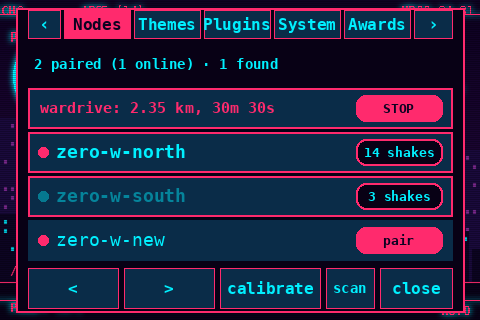
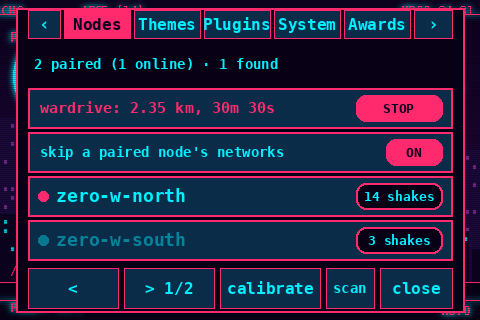
Move the skip-a-paired-node's-networks switch into the Nodes tab (2.16.2)
It lived in Settings, disconnected from the feature it actually
controls. Both the touch menu and the web editor now show it as a
row right below Wardrive, at the top of Nodes -- same off-by-default
switch, same live whitelist mechanism, just where you'd look for it.

diff --git a/theme_manager.py b/theme_manager.py
@@ -2508,9 +2508,9 @@ def draw_menu(img, menu, theme):
         d.text((240, 178), "(Settings in the web editor, or settings.json)", font=_font(12), fill=_mixc(fg, bg, 0.4), anchor="mm")
     if tab == "layout" and not menu["layout"]:
         d.text((240, 150), "Nothing on the screen yet", font=_font(16, True), fill=fg, anchor="mm")
-    if tab == "nodes" and len(menu.get("nodes", [])) <= 2:
-        d.text((240, 194), "No nodes yet", font=_font(16, True), fill=fg, anchor="mm")
-        d.text((240, 222), "Install node_pwn on another unit, then tap scan", font=_font(12), fill=_mixc(fg, bg, 0.4), anchor="mm")
+    if tab == "nodes" and len(menu.get("nodes", [])) <= 3:
+        d.text((240, 198), "No nodes yet", font=_font(16, True), fill=fg, anchor="mm")
+        d.text((240, 226), "Install node_pwn on another unit, then tap scan", font=_font(12), fill=_mixc(fg, bg, 0.4), anchor="mm")
     if tab == "system":
         for i, text in enumerate(menu.get("lines", ())):
             d.text((32, 46 + i * 24), text, font=_font(16), fill=fg)
@@ -2614,6 +2614,13 @@ def draw_menu(img, menu, theme):
                 d.rounded_rectangle((px0, y0 + 7, px1, y1 - 7), 10, fill=acc if active else panel, outline=acc, width=2)
                 d.text(((px0 + px1) // 2, cy), "STOP" if active else "START", font=_font(13, True),
                        fill=bg if active else fg, anchor="mm")
+            elif info["kind"] == "skipnet":
+                on, cy = info.get("on", False), (y0 + y1) // 2
+                d.rectangle(rect, fill=line, outline=acc if on else line, width=2)
+                d.text((x0 + 12, cy), "skip a paired node's networks", font=_font(14, on), fill=fg, anchor="lm")
+                px0, px1 = x1 - 66, x1 - 10
+                d.rounded_rectangle((px0, y0 + 7, px1, y1 - 7), 10, fill=acc if on else panel, outline=acc, width=2)
+                d.text(((px0 + px1) // 2, cy), "ON" if on else "OFF", font=_font(13, True), fill=bg if on else fg, anchor="mm")
             else:
                 paired, online = info["kind"] == "paired", info.get("online", True)
                 dim = paired and not online
@@ -2887,7 +2894,7 @@ def _pwa_icon(size, theme):
 
 class ThemeManager(plugins.Plugin):
     __author__ = "theme_manager contributors"
-    __version__ = "2.16.1"
+    __version__ = "2.16.2"
     __license__ = "GPL3"
     __description__ = "Theme engine for the 3.5 inch display: colors, effects, animations, custom text, web GUI."
 
@@ -3363,8 +3370,9 @@ class ThemeManager(plugins.Plugin):
         paired, found = self.node_rows()
         online = sum(1 for p in paired if p.get("online", True))
         info = {"__summary__": {"kind": "summary", "text": "%d paired (%d online) · %d found" % (len(paired), online, len(found))},
-                "__wardrive__": dict(w, kind="wardrive")}
-        order = ["__summary__", "__wardrive__"]
+                "__wardrive__": dict(w, kind="wardrive"),
+                "__skipnet__": {"kind": "skipnet", "on": self._settings["node_skip_captured"]}}
+        order = ["__summary__", "__wardrive__", "__skipnet__"]
         for p in paired:
             info["p:" + p["mac"]] = dict(p, kind="paired")
             order.append("p:" + p["mac"])
@@ -3827,6 +3835,12 @@ class ThemeManager(plugins.Plugin):
         self._set_warning(time.time())
         self._refresh_now()
 
+    def _toggle_node_skip(self):
+        on = not self._settings["node_skip_captured"]
+        self.save_settings(dict(self._settings, node_skip_captured=on))
+        self.toast("skip a paired node's networks: %s" % ("ON" if on else "OFF"))
+        self._refresh_now()
+
     def _check_overheat(self, temp, now):
         """With the option on: if the CPU stays at or above the limit long enough, count down 30 s on screen and turn the
         Pi off (a touch cancels and snoozes it). Cooling down cancels it too."""
@@ -4080,6 +4094,9 @@ class ThemeManager(plugins.Plugin):
                             self.toast("wardrive started", seconds=3, now=now)
                         self._sync_nodes_menu(menu)
                         self._refresh_now()
+                    elif info["kind"] == "skipnet":
+                        self._toggle_node_skip()
+                        self._sync_nodes_menu(menu)
                     elif info["kind"] == "found":
                         menu["confirm"] = None
                         if self.pair_node(info["mac"]):
@@ -5364,6 +5381,9 @@ function panelNodes(){const p=E('div');
  panelWardriveSection(p);
  p.append(E('h2',{},'Nodes'));
  p.append(E('p',{style:'color:var(--dim);margin:0 0 10px'},'Other units running node_pwn (install it with Node_PWN.sh). Nodes in WiFi range show up here on their own, over pwnagotchi’s own mesh -- no shared network needed. Pair one to see its capture stats here; a paired node’s handshakes count as already covered on the Radar tab, so a group of units end up covering more ground instead of attacking the same network twice.'));
+ p.append(E('div',{class:'row'},check('skip networks a paired node already has',cfg.settings.node_skip_captured,async on=>{
+  cfg.settings.node_skip_captured=on;await saveSettings()})),
+  E('p',{style:'color:var(--dim);margin:6px 0 14px'},'Off by default. On, a network a paired, online node already captured is added to pwnagotchi’s own whitelist for as long as that stays true, so this unit genuinely skips it instead of just showing it covered on the Radar — the same live, no-restart-needed mechanism as the attack mode (Settings tab) uses. It never touches whitelist entries you added yourself, and cleans up the moment a node is unpaired, goes offline, or this is switched off again.'));
  const btn=E('button',{onclick:async()=>{if(nodesScanning)return;nodesScanning=true;btn.textContent='scanning…';btn.disabled=true;
   try{const r=await(await post('nodes/scan',{})).json();nodes={paired:r.paired,found:r.found}}catch(e){}
   finally{nodesScanning=false;panel()}}},'Scan for nodes on this network');
@@ -5397,8 +5417,6 @@ function panelSettings(){const p=E('div'),s=cfg.settings,d=cfg.display;
  p.append(E('h2',{},'Attack mode'),E('div',{class:'row'},
   select([['aggressive','Aggressive (normal)'],['passive','Passive recon'],['home','Home defense']],s.mode||'aggressive',v=>{s.mode=v})),
   E('p',{style:'color:var(--dim);margin:6px 0 14px'},'Aggressive is normal pwnagotchi behavior. Passive turns deauth and association off right away, no restart needed; Aggressive puts them back. Home defense does the same as Passive, and also watches for a new device broadcasting one of the network names in your whitelist, a common sign of a rogue access point.'));
- p.append(E('div',{class:'row'},check('skip networks a paired node already has',s.node_skip_captured,on=>{s.node_skip_captured=on})),
-  E('p',{style:'color:var(--dim);margin:6px 0 14px'},'Off by default. On, a network a paired, online node (Nodes tab) already captured is added to pwnagotchi’s own whitelist for as long as that stays true, so this unit genuinely skips it instead of just showing it covered on the Radar — the same live, no-restart-needed mechanism as the attack mode above. It never touches whitelist entries you added yourself, and cleans up the moment a node is unpaired, goes offline, or this is switched off again.'));
  p.append(E('h2',{},'Overheating'),E('div',{class:'row'},
   check('switch the Pi off when it stays too hot',s.overheat_off,on=>{s.overheat_off=on;panel()}),
   field('above (°C)',num(s.overheat_temp,v=>s.overheat_temp=v,70,95)),
@@ -5417,7 +5435,7 @@ function panelSettings(){const p=E('div'),s=cfg.settings,d=cfg.display;
  return p}
 const PANELS={Colors:panelColors,Effects:panelEffects,Text:panelText,Elements:panelElements,Moods:panelMoods,Faces:panelFaces,JSON:panelJson,Layout:panelLayout,Awards:panelAwards,Cracking:panelCracking,Radar:panelRadar,Map:panelMap,Nodes:panelNodes,Settings:panelSettings};
 function panel(){const p=$('panel');p.innerHTML='';p.append(PANELS[tab]());
- const t=$('tabs');t.innerHTML='';for(const n of TABS)t.append(E('button',{class:n===tab?'on':'',onclick:async()=>{tab=n;pickKey=null;$('pick').innerHTML='';$('pick').className='';pvMood=n==='Moods'?mood:null;if(n==='Elements'||n==='Moods'){try{info.entities=await(await fetch(base+'/api/entities')).json()}catch(e){}}if(n==='Layout')await loadLayout();if(n==='Awards')await loadAwards();if(n==='Cracking')await loadCracking();if(n==='Radar')await loadRadar();if(n==='Map')await loadLocations();if(n==='Nodes'){await loadNodes();await loadWardrive()}if(n==='Settings')await loadSettings();panel();overlay();schedule()}},n))}
+ const t=$('tabs');t.innerHTML='';for(const n of TABS)t.append(E('button',{class:n===tab?'on':'',onclick:async()=>{tab=n;pickKey=null;$('pick').innerHTML='';$('pick').className='';pvMood=n==='Moods'?mood:null;if(n==='Elements'||n==='Moods'){try{info.entities=await(await fetch(base+'/api/entities')).json()}catch(e){}}if(n==='Layout')await loadLayout();if(n==='Awards')await loadAwards();if(n==='Cracking')await loadCracking();if(n==='Radar')await loadRadar();if(n==='Map')await loadLocations();if(n==='Nodes'){await loadNodes();await loadWardrive();await loadSettings()}if(n==='Settings')await loadSettings();panel();overlay();schedule()}},n))}
 
 /* ---- drag text lines on the preview ---- */
 const est=t=>(t||'').replace(/\{time\}/g,'00:00:00').replace(/\{date\}/g,'0000-00-00').replace(/\{\w+\}/g,'0000').length;

diff --git a/tests/e2e_editor.py b/tests/e2e_editor.py
@@ -273,6 +273,22 @@ with sync_playwright() as p:
     page.wait_for_timeout(200)
     check("the Nodes tab loads with no browser error (nothing found yet)", page.locator("p:has-text('No nodes yet')").count() == 1)
 
+    skip_box = page.locator("label.ck:has-text('skip networks a paired node already has') input")
+    check("the skip-captured-networks setting lives right here in Nodes, off by default", skip_box.is_checked() is False)
+    sent_skip = {}
+
+    def skip_route(route):
+        body = json.loads(route.request.post_data)
+        sent_skip.update(body.get("settings", {}))
+        route.fulfill(body=json.dumps({"ok": True, "settings": body.get("settings", {}), "display": {"dim": 1, "night": None, "idle": None}}),
+                       content_type="application/json")
+
+    page.route("**/api/settings", skip_route)
+    skip_box.check()
+    page.wait_for_timeout(150)
+    check("checking it saves node_skip_captured", sent_skip.get("node_skip_captured") is True)
+    page.unroute("**/api/settings")
+
     mesh_node = {"node": "node_pwn", "mac": "02:00:00:00:00:0b", "name": "zz-e2e-mesh", "ip": None,
                  "handshakes": 6, "bssids": ["aabbccddeeff"], "via": "mesh", "rssi": -58}
     page.route("**/api/nodes", lambda r: r.fulfill(body=json.dumps({"paired": [], "found": [mesh_node]}), content_type="application/json"))

diff --git a/tests/test_nodes.py b/tests/test_nodes.py
@@ -232,9 +232,17 @@ def wait_scan(tm, seconds=3):
 
 
 tm3.open_menu("list", "nodes")
-ok("the nodes tab opens with nothing yet", tm3._menu["tab"] == "nodes" and len(tm3._menu["nodes"]) == 2)
+ok("the nodes tab opens with nothing yet", tm3._menu["tab"] == "nodes" and len(tm3._menu["nodes"]) == 3)
 T.draw_menu(__import__("PIL.Image", fromlist=["Image"]).new("RGB", (480, 320)), tm3._menu, tm3._theme)
 ok("...and draws the empty-state hint without crashing", True)
+
+ok("the skip-captured-networks row starts off", not tm3._settings["node_skip_captured"])
+skip_hit = finger.hit("noderow", "__skipnet__")
+finger.tap_rect(skip_hit)
+ok("tapping it turns the setting on", tm3._settings["node_skip_captured"] is True)
+ok("...and the row reflects that right away", tm3._menu["nodes_info"]["__skipnet__"]["on"] is True)
+finger.tap_rect(skip_hit)
+ok("tapping it again turns it back off", tm3._settings["node_skip_captured"] is False)
 
 srv_c, addr_c = fake_node({"node": "node_pwn", "version": "1.0.0", "name": "node-c", "mac": "02:00:00:00:00:03",
                             "handshakes": 5, "bssids": ["aabbccddeeff"], "uptime": 20})

diff --git a/tools/make_screenshots.py b/tools/make_screenshots.py
@@ -102,6 +102,7 @@ wardrive_stats = {"active": True, "distance_m": 2350, "duration_s": 1830, "aps_s
 nodes_info = {
     "__summary__": {"kind": "summary", "text": "2 paired (1 online) · 1 found"},
     "__wardrive__": dict(wardrive_stats, kind="wardrive"),
+    "__skipnet__": {"kind": "skipnet", "on": True},
     "p:02:00:00:00:00:11": {"kind": "paired", "mac": "02:00:00:00:00:11", "name": "zero-w-north", "ip": "192.0.2.10:8080", "handshakes": 14, "online": True},
     "p:02:00:00:00:00:12": {"kind": "paired", "mac": "02:00:00:00:00:12", "name": "zero-w-south", "ip": "192.0.2.11:8080", "handshakes": 3, "online": False},
     "f:02:00:00:00:00:13": {"kind": "found", "mac": "02:00:00:00:00:13", "name": "zero-w-new", "ip": "192.0.2.12:8080", "handshakes": 7},

diff --git a/README.md b/README.md
@@ -212,7 +212,7 @@ $P mode                  # show the attack mode (or: mode passive / mode home)
 | **Layout** | every element on the screen; tap one to move it with `X -` `X +` `Y -` `Y +` (1, 5 or 10 pixels per tap), `reset` and `done`; `clear` puts everything back |
 | **Crack** | every captured handshake with a status pill (`PWND`/`WAIT`/`NEW`/`BAD`/`?`); tap one for the password, quality guess, or location if it has one |
 | **Radar** | a rotating sonar sweep of nearby networks; tap a blip for its name, encryption, client count, signal, and whether you already have its handshake. Display-only — it never affects what pwnagotchi attacks |
-| **Nodes** | a **Wardrive** row at the top — tap it to start/stop a trip log, showing distance, duration, unique networks seen and handshakes captured since it started (the full gps breadcrumb trail and route map are in the web editor's Nodes tab); display-only, it never affects what pwnagotchi attacks. Below it, other units running `node_pwn`: one in WiFi range shows up here on its own, over pwnagotchi's own mesh (no shared network needed). `scan` also checks the local network. Tap a found one to pair, tap a paired one and tap again to unpair. Shows name, address (or signal, for a mesh find), handshake count and online/offline. A node that is neither in mesh range nor on this network can be added by address instead, from the web editor's Nodes tab (no keyboard here to type one with). The web editor's Settings tab has an off-by-default switch to actually skip a network a paired, online node already captured, not just show it covered on the Radar |
+| **Nodes** | a **Wardrive** row at the top — tap it to start/stop a trip log, showing distance, duration, unique networks seen and handshakes captured since it started (the full gps breadcrumb trail and route map are in the web editor's Nodes tab); display-only, it never affects what pwnagotchi attacks. Below it, a row to actually skip a network a paired, online node already captured (off by default) — the same live, no-restart-needed mechanism as the attack mode, not just showing it covered on the Radar. Then other units running `node_pwn`: one in WiFi range shows up here on its own, over pwnagotchi's own mesh (no shared network needed). `scan` also checks the local network. Tap a found one to pair, tap a paired one and tap again to unpair. Shows name, address (or signal, for a mesh find), handshake count and online/offline. A node that is neither in mesh range nor on this network can be added by address instead, from the web editor's Nodes tab (no keyboard here to type one with) |
 
 Swipe sideways on the bare screen to change theme. `close`, a tap outside the menu, or 20 seconds of nothing closes it. It costs nothing while idle: one thread sleeps until
 the screen is touched.

diff --git a/docs/THEMES.md b/docs/THEMES.md
@@ -364,13 +364,6 @@ itself never initiates anything and never talks to any other node on its own -- 
 pairing actually changes: a network a paired, *online* node has already captured now also shows as covered on your
 own Radar.
 
-The web editor's **Settings** tab has an optional, off-by-default switch: **"skip networks a paired node already
-has"**. Turned on, a network a paired, online node has already captured is added to pwnagotchi's own whitelist for as
-long as that stays true, so this unit genuinely stops attacking it instead of just showing it covered on the Radar --
-the same live, no-restart-needed in-memory mechanism the attack-mode setting already uses. It never touches a
-whitelist entry you added yourself in `config.toml`, and cleans up automatically the moment a node is unpaired, goes
-offline, or the switch is turned back off.
-
 Going out with a paired node also gets its own **Wardrive** row, right at the top of this same tab: a start/stop trip
 log, tap it to toggle `START` / `STOP`. While a trip is active it shows distance travelled, duration, unique networks
 seen and handshakes captured since it started, ticking live while the tab is open. It reuses pwnagotchi's own `gps`
@@ -380,6 +373,13 @@ saved to `/etc/pwnagotchi/themes/wardrive.json` and picked back up after a resta
 trip's summary even after it ends. Starting a new trip clears the previous one. The web editor's own Nodes tab shows
 the same status plus the full breadcrumb trail on an OpenStreetMap route (loaded only when you open the tab). Like
 Radar and Cracking, this is purely a log: it never changes what pwnagotchi attacks.
+
+Right below it is an optional, off-by-default row: **"skip a paired node's networks"** (touch menu) / **"skip
+networks a paired node already has"** (web editor). Turned on, a network a paired, online node has already captured
+is added to pwnagotchi's own whitelist for as long as that stays true, so this unit genuinely stops attacking it
+instead of just showing it covered on the Radar -- the same live, no-restart-needed in-memory mechanism the
+attack-mode setting already uses. It never touches a whitelist entry you added yourself in `config.toml`, and cleans
+up automatically the moment a node is unpaired, goes offline, or the switch is turned back off.
 
 Each handshake also gets a **quality** guess, worked out locally from the capture itself instead of waiting for
 wpa-sec: a full handshake, a PMKID (crackable without a client ever connecting), only a partial capture, or empty

diff --git a/CHANGELOG.md b/CHANGELOG.md
@@ -1,5 +1,12 @@
 # Changelog
 
+## 2.16.2
+
+**The "skip a paired node's networks" switch moved into the Nodes tab.** It was tucked away in Settings, several
+taps from the feature it actually affects. Both the touch menu and the web editor now show it as a row right below
+Wardrive, at the top of Nodes -- same off-by-default switch, same live whitelist mechanism, just where you'd look
+for it. No settings or saved data changed.
+
 ## 2.16.1
 
 **Wardrive moved under the Nodes tab.** It shipped in 2.16.0 as its own standalone tab, but a trip log is really a
